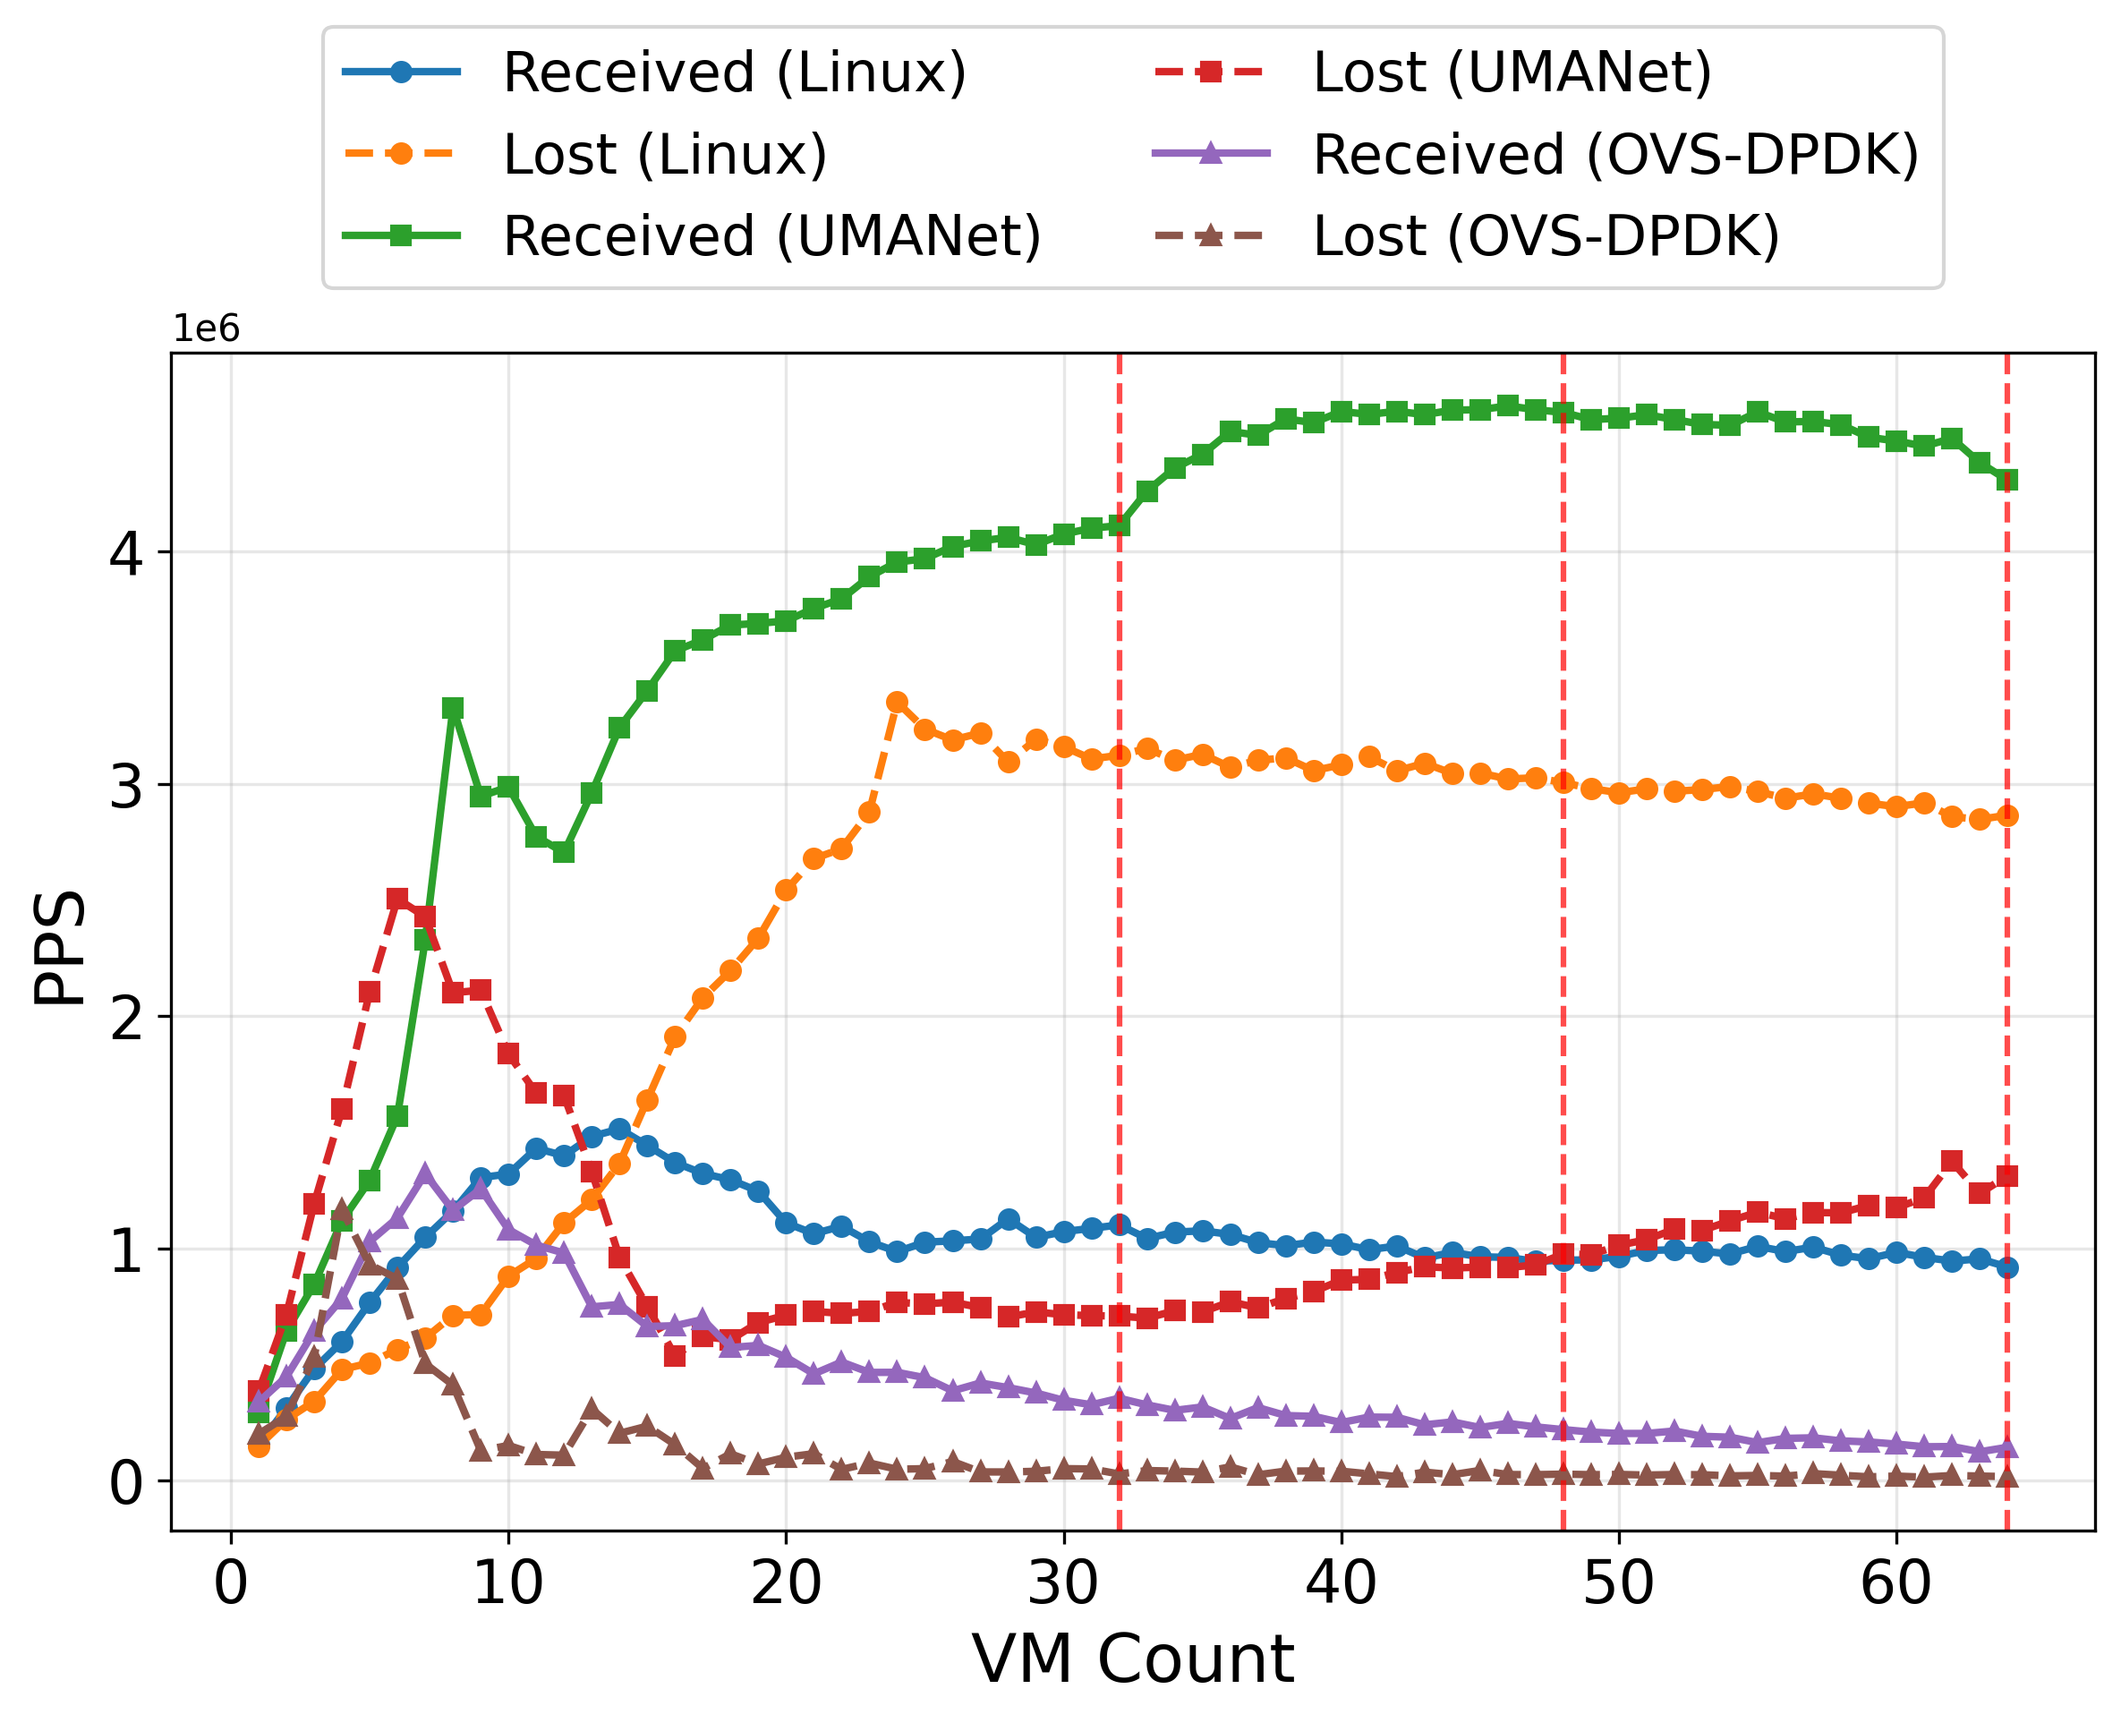
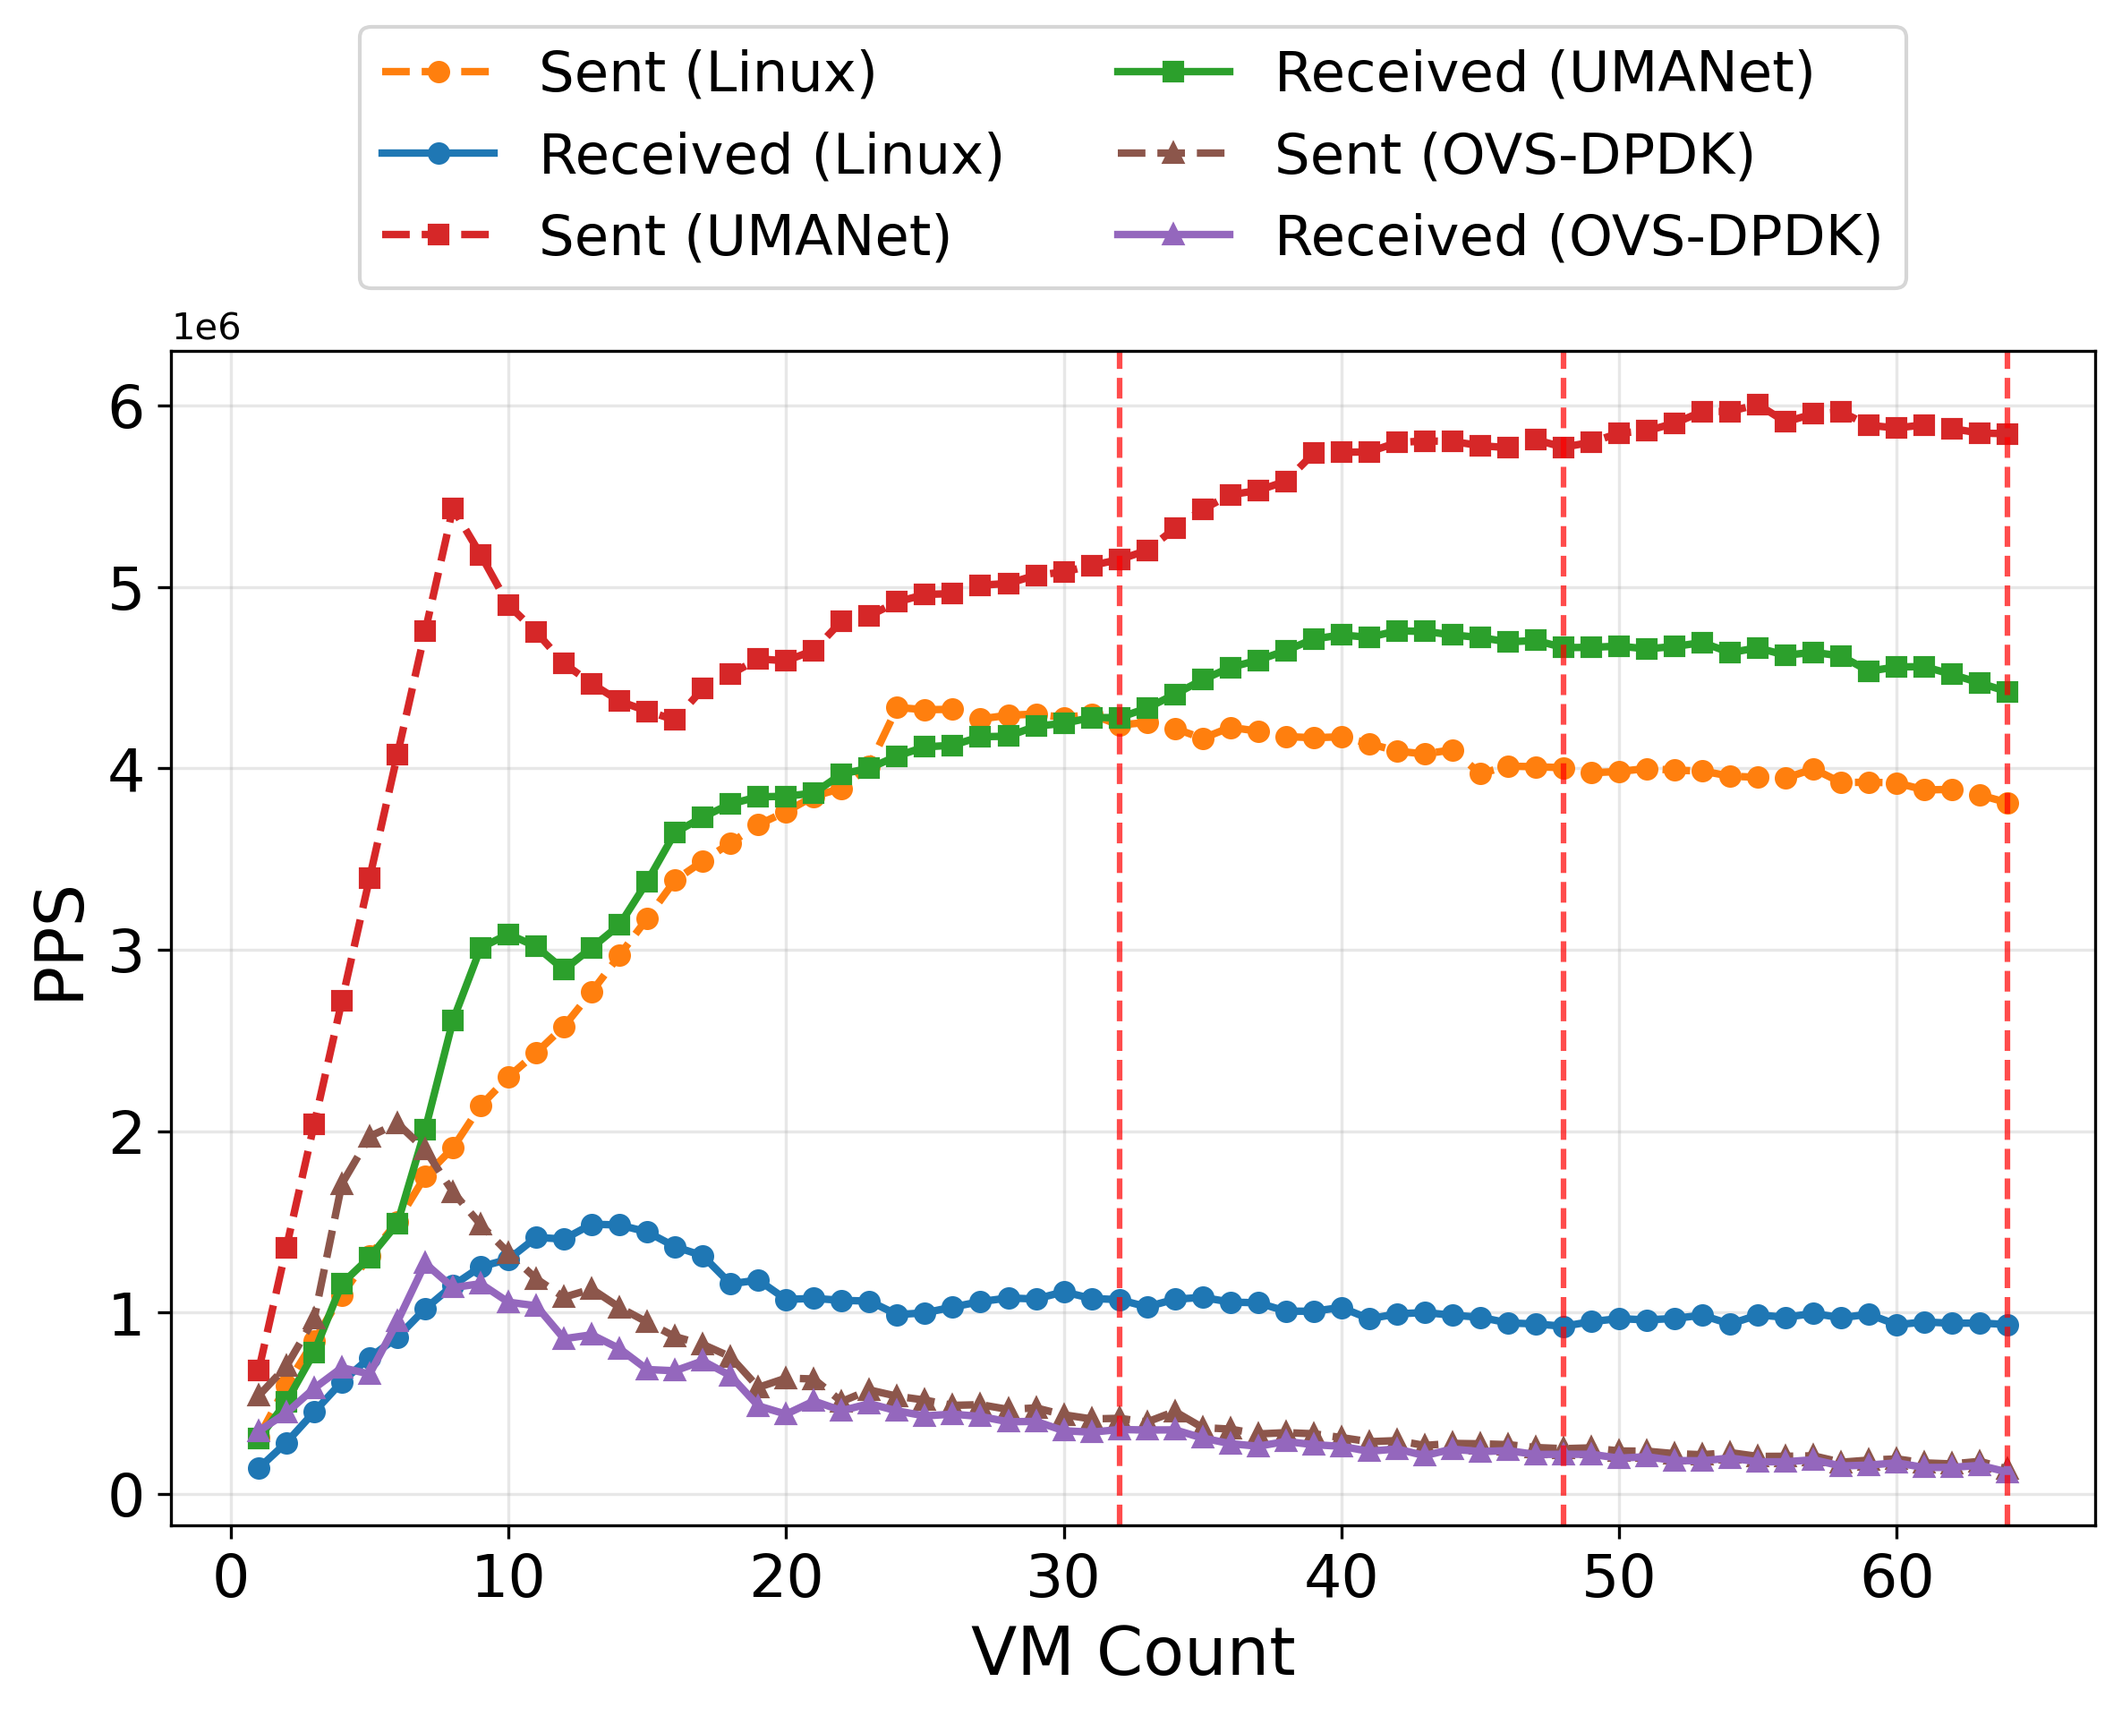
fig (#39)

diff --git a/README.md b/README.md
@@ -17,7 +17,7 @@ UMANet further decomposes the fast path into 4 types: ETH RX, ETH TX, vhost RX, 
 ![Architecture](./docs/architecture.png)
 
 ## Performance
-UMANet achieves up to 4.7× higher received PPS and 2.2× lower packet loss than Linux TAP networking.
+UMANet achieves up to 4.7× higher received PPS and 2.0× lower packet loss than Linux TAP networking.
 
 ![Performance](./docs/iperf_udp_pps.png)
 
